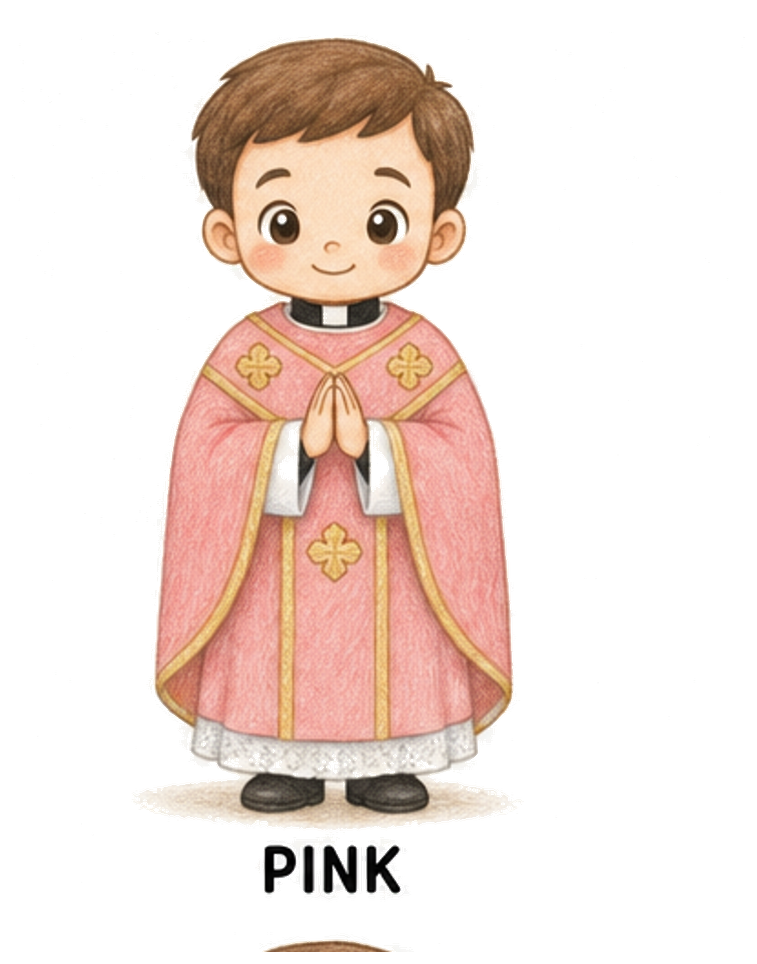
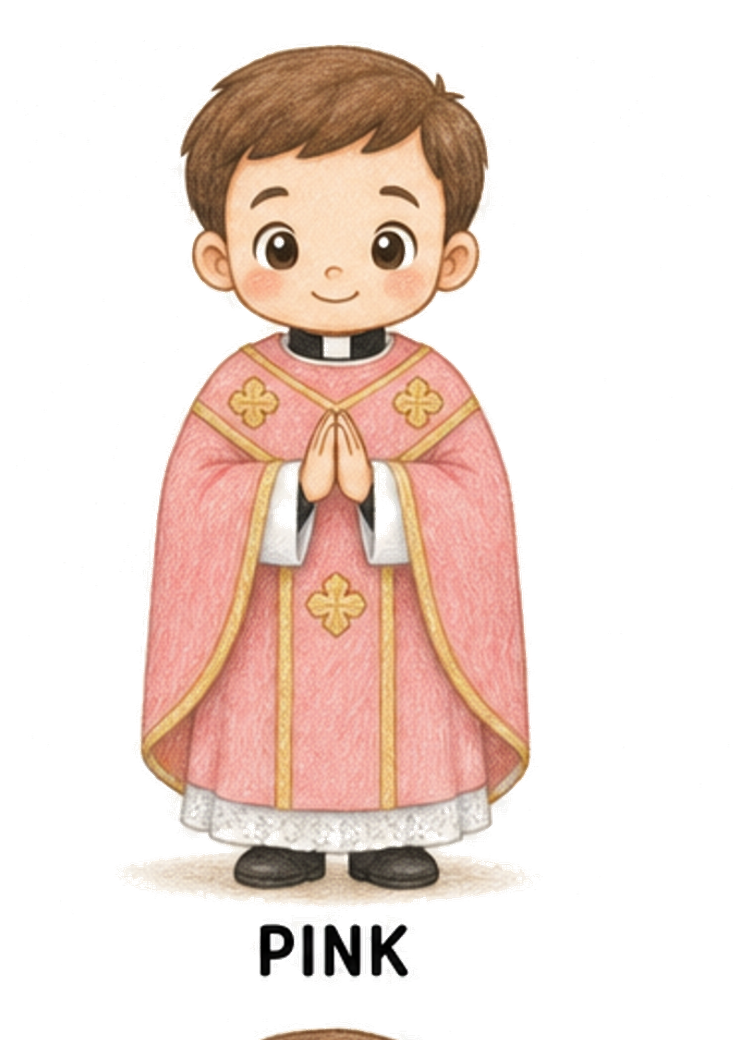
fix: more headroom on green, purple, and light purple vestment sprites
Extract taller crop from spritesheet, skip top-trim on those colors,
add 140px top pad, and extra UI padding.

Changed region(s): [[0.1842, 0.0311, 0.7063, 0.9336], [0.3378, 0.9647, 0.522, 0.9959]]

diff --git a/src/components/liturgical-vestments/PriestVestmentFigure.tsx b/src/components/liturgical-vestments/PriestVestmentFigure.tsx
@@ -12,9 +12,12 @@ type Props = {
   chasubleColor: VestmentColor | null;
 };
 
+const EXTRA_HEAD_PAD: VestmentColor[] = ["green", "purple", "lavender"];
+
 export function PriestVestmentFigure({ chasubleColor }: Props) {
   const displayColor = chasubleColor ?? VESTMENT_DEFAULT_COLOR;
   const src = VESTMENT_CHARACTER_IMAGES.dressed(displayColor);
+  const headPad = EXTRA_HEAD_PAD.includes(displayColor);
 
   const alt =
     displayColor === VESTMENT_DEFAULT_COLOR && !chasubleColor
@@ -22,15 +25,21 @@ export function PriestVestmentFigure({ chasubleColor }: Props) {
       : `Priest wearing ${displayColor} liturgical vestments`;
 
   return (
-    <div className="flex justify-center overflow-visible">
+    <div
+      className={`flex justify-center overflow-visible ${headPad ? "pt-4 sm:pt-6" : "pt-1"}`}
+    >
       <Image
         src={src}
         alt={alt}
         width={480}
-        height={920}
+        height={1000}
         unoptimized
-        className="h-auto max-h-[min(72vh,580px)] w-auto max-w-full object-contain object-top"
-        sizes="(max-width: 640px) 90vw, 420px"
+        className={`h-auto w-auto max-w-full object-contain object-top ${
+          headPad
+            ? "max-h-[min(78vh,640px)]"
+            : "max-h-[min(72vh,580px)]"
+        }`}
+        sizes="(max-width: 640px) 90vw, 440px"
         priority
         draggable={false}
       />
